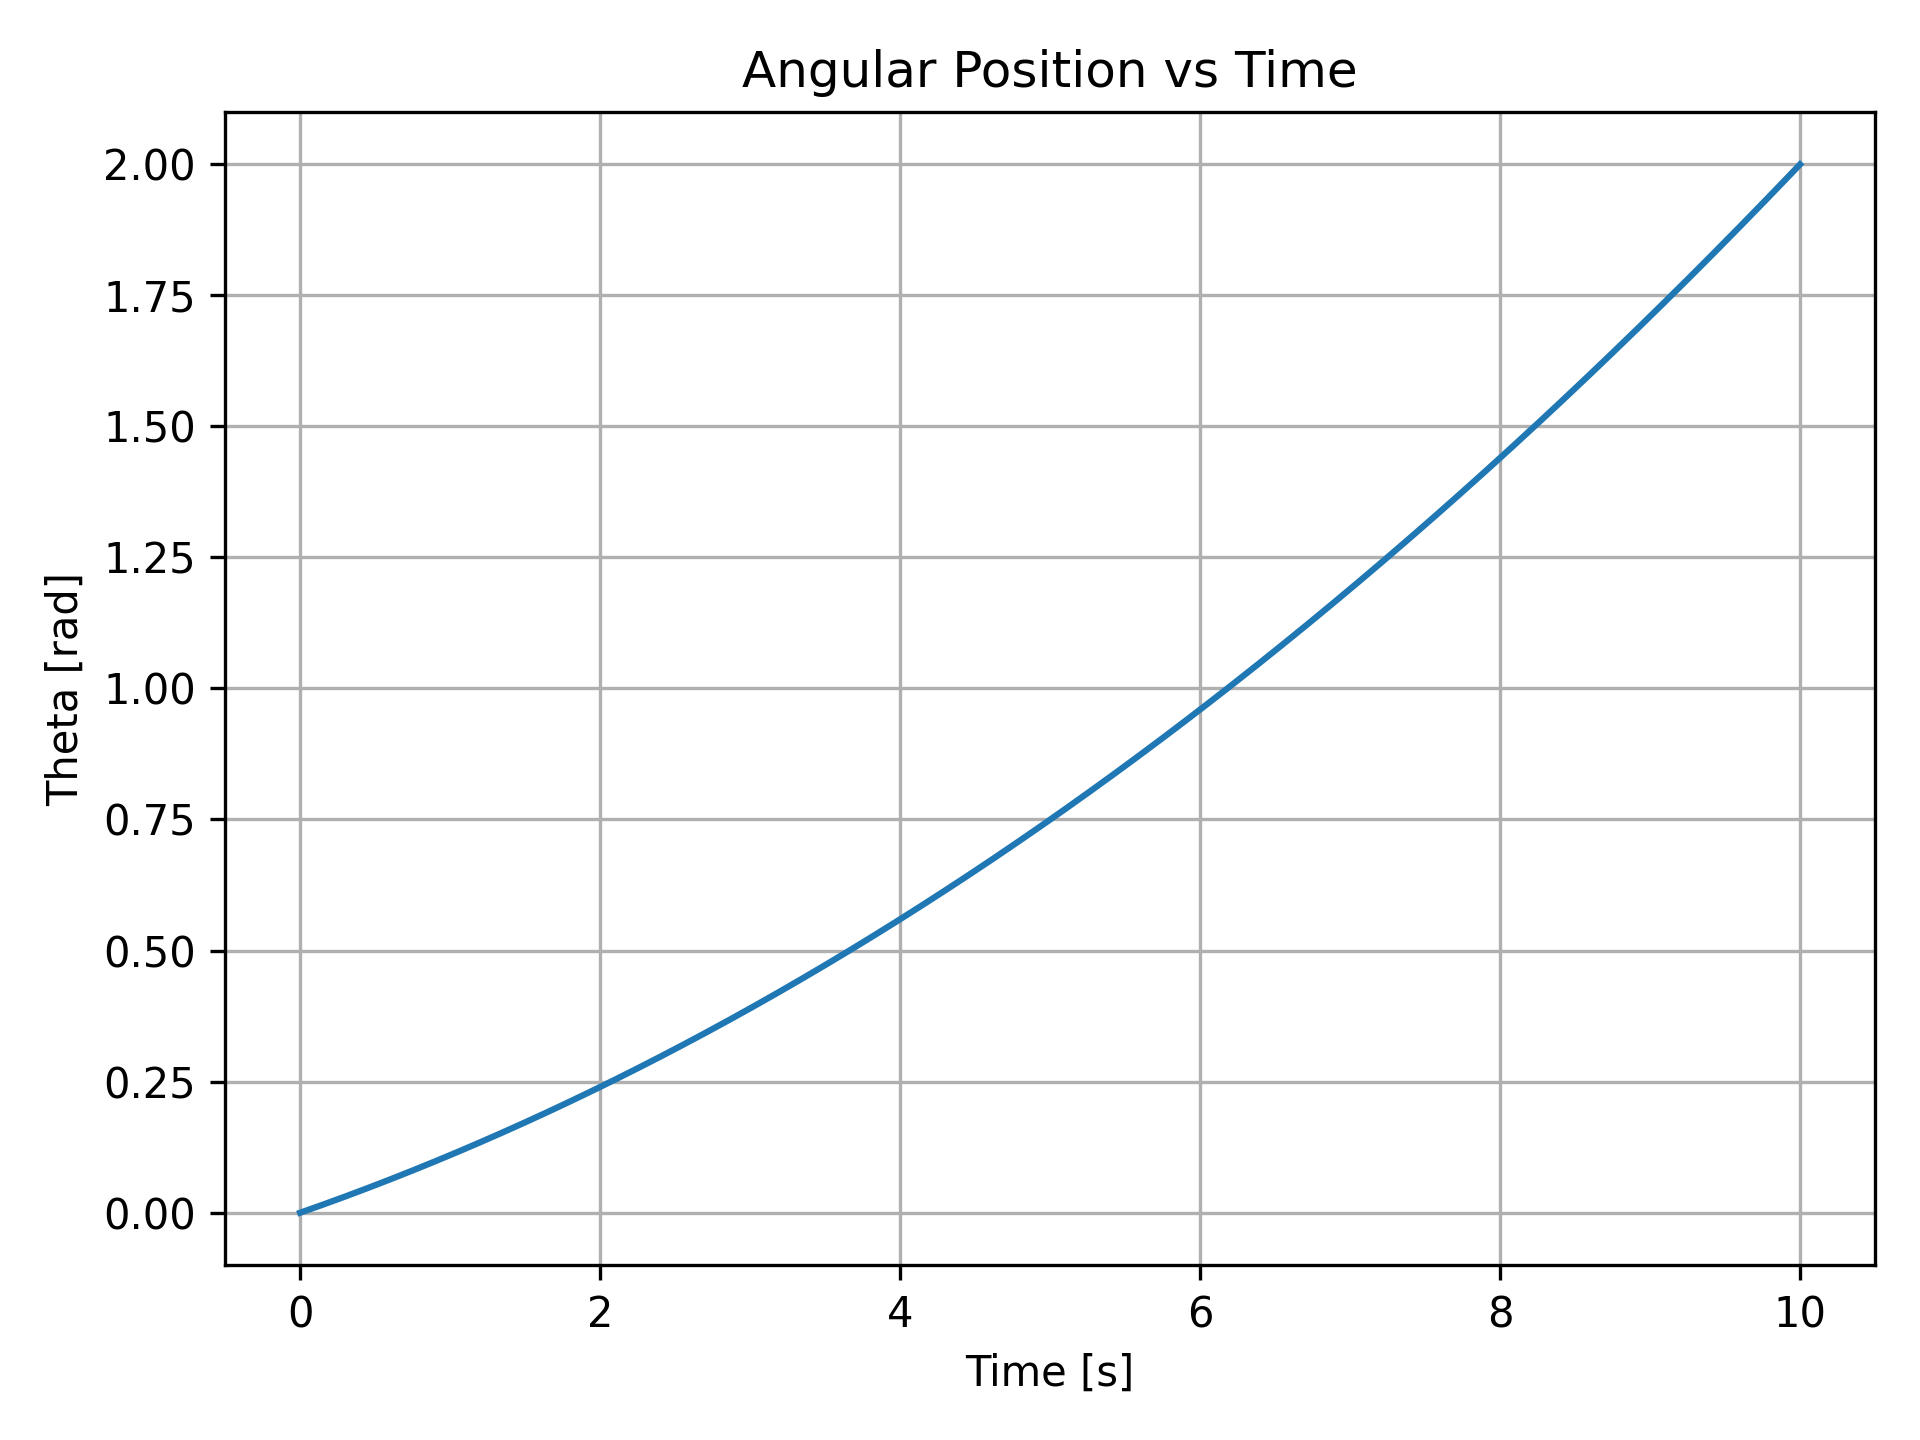
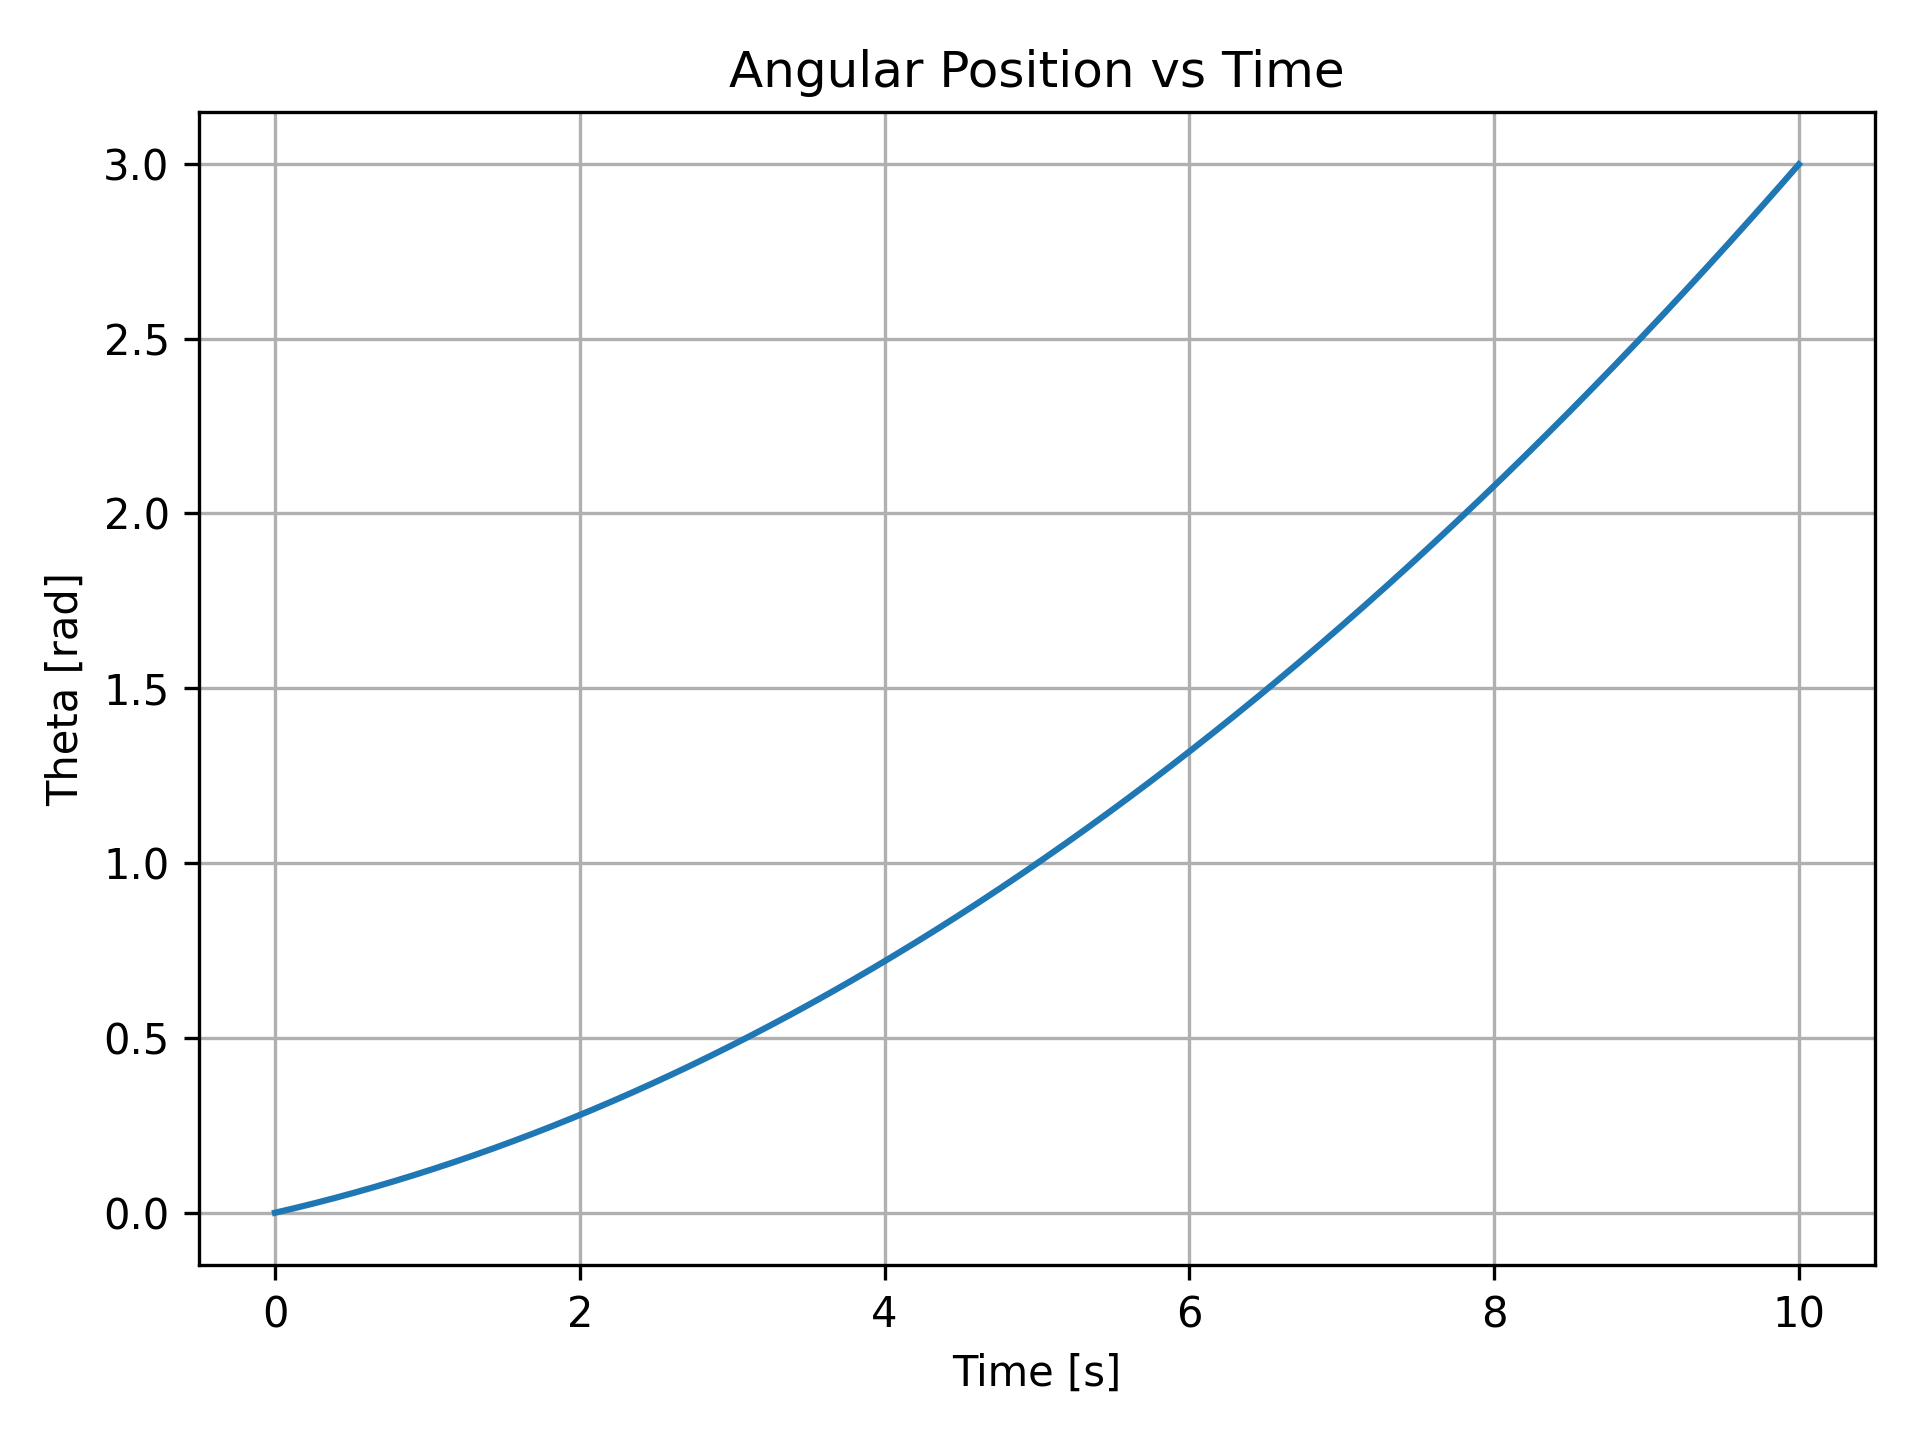
Improve plot saving and results visualization

diff --git a/src/config.py b/src/config.py
@@ -6,7 +6,7 @@ Keeping parameters here makes the project easier to maintain and scale.
 """
 
 INERTIA_KGM2 = 0.05       # Moment of inertia [kg*m^2]
-TORQUE_NM = 0.001         # Applied torque [N*m]
+TORQUE_NM = .002          # Applied torque [N*m]
 
 THETA0_RAD = 0.0          # Initial angular position [rad]
 OMEGA0_RAD_S = 0.1        # Initial angular velocity [rad/s]

diff --git a/src/simulator.py b/src/simulator.py
@@ -2,6 +2,7 @@
 Simulation execution loop.
 
 This module is responsible for propagating the system state over time.
+Discrete-time implementation of rotational physics using Euler integration.
 """
 
 import numpy as np

diff --git a/README.md b/README.md
@@ -1,6 +1,8 @@
-# Satellite Attitude Simulator
+## Satellite Attitude Simulator
 
-This project implements a modular 1-axis simulation of satellite attitude dynamics using a rigid body rotational model.
+This project implements a modular simulation of satellite rotational dynamics (attitude) using a rigid body model and discrete-time numerical integration.
+
+It serves as a foundation for understanding and developing Guidance, Navigation, and Control (GNC) systems.
 
 The simulator is structured to keep configuration, dynamics, simulation flow, and visualization separated, following a clean and scalable engineering approach.
 
@@ -9,8 +11,26 @@ The simulator is structured to keep configuration, dynamics, simulation flow, an
 - Modular project structure
 - Angular position and angular velocity plots
 
+## System Overview
+
+The system models 1-axis rotational motion using:
+
+- Torque input
+- Moment of inertia
+- Angular velocity
+- Angular position
+
+The simulation uses Euler integration to propagate system states over time.
+
+## How to Run
+
+```bash
+pip install -r requirements.txt
+python -m src.main
+
 ## Next Steps
 - PID attitude control
 - 3-axis dynamics
 - Reaction wheel modeling
 - State estimation
+
